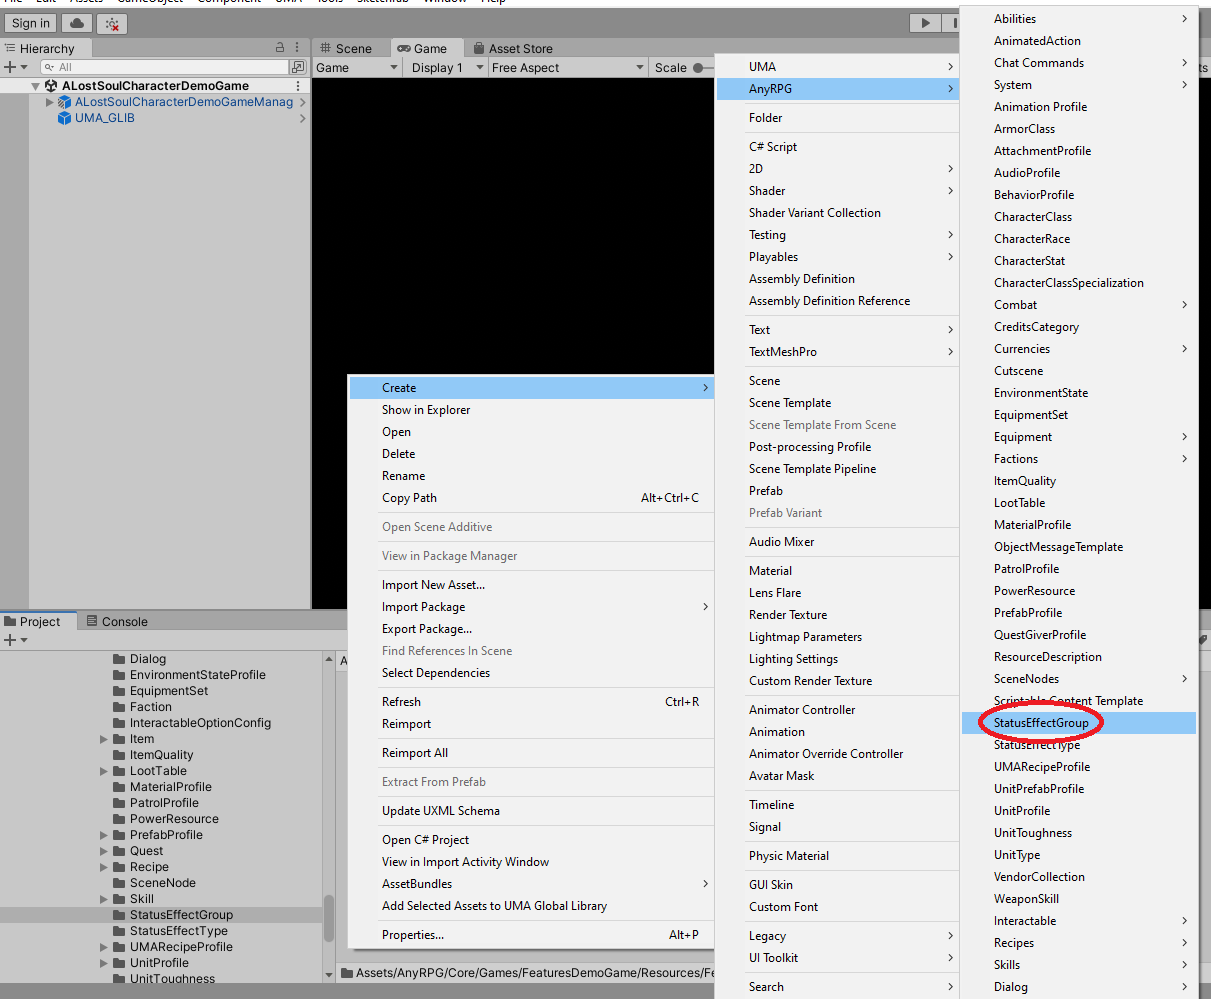
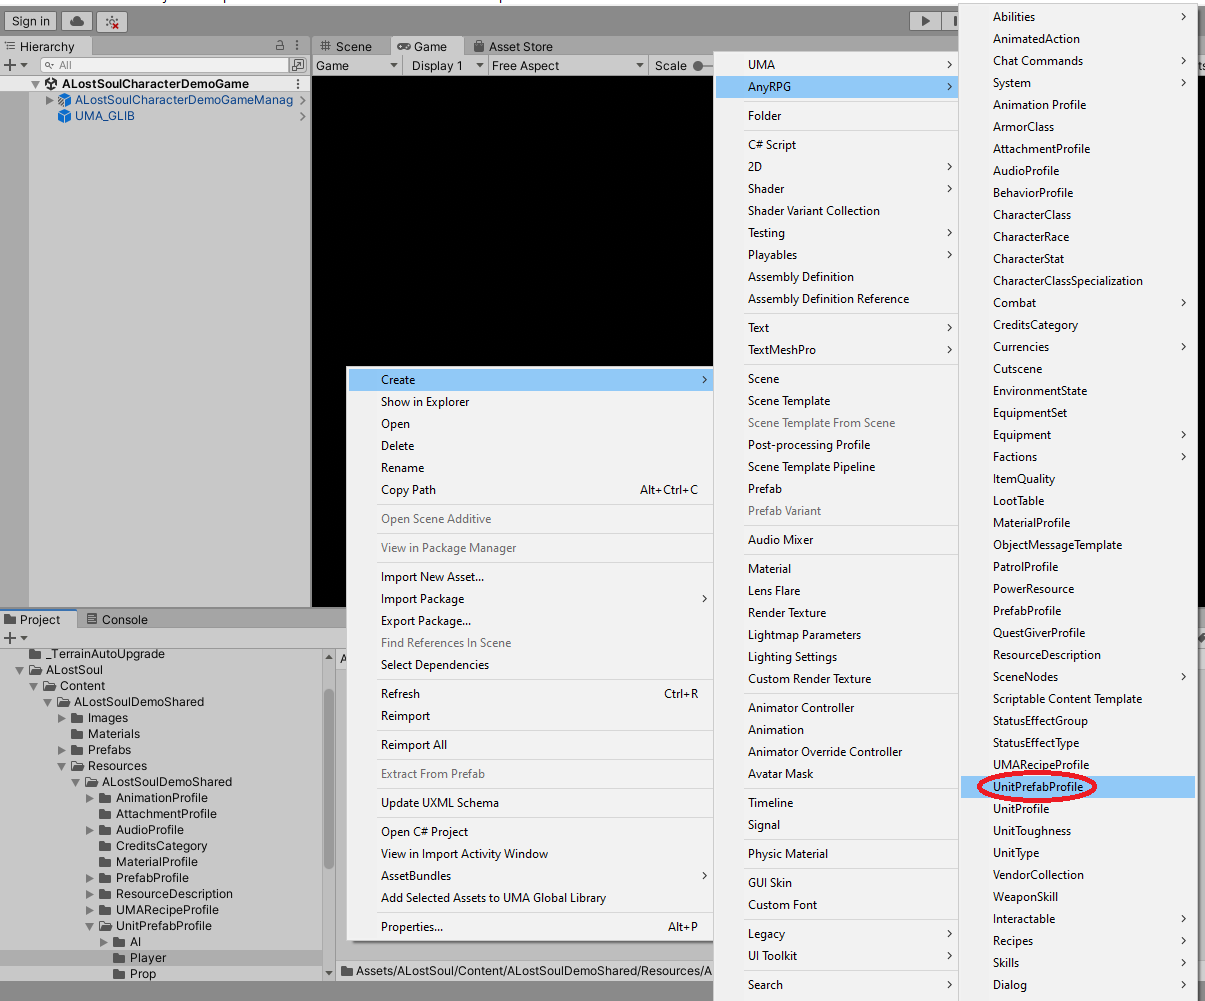
GitBook: [#59] add unit prefab profile documentation

diff --git a/scriptable-objects/unit-prefab-profile.md b/scriptable-objects/unit-prefab-profile.md
@@ -1,5 +1,53 @@
+---
+description: >-
+  A unit prefab profile contains information needed to configure the GameObject
+  prefab that represents the character model for any character.
+---
+
 # Unit Prefab Profile
 
-{% hint style="info" %}
-Coming Soon
-{% endhint %}
+## Creation
+
+To create a unit prefab profile, find (or create) the _GameName/Resources/GameName/UnitPrefabProfile_ folder in the project tab and right click.  Choose _Create > AnyRPG > UnitPrefabProfile_.
+
+![](<../.gitbook/assets/image (3).png>)
+
+## Properties
+
+| Name                          | Description                                                                                                                                                                                 |
+| ----------------------------- | ------------------------------------------------------------------------------------------------------------------------------------------------------------------------------------------- |
+| Unit Prefab                   | A link to a prefab that will be used for the character unit.  The unit prefab does not have to, but can optionally, include a model.                                                        |
+| Model Prefab                  | A link to a prefab that will be used for the character model if the model is separate from the _Unit Prefab_.                                                                               |
+| Animation Profile Name        | The name of an [Animation Profile](animation-profile.md) that will be used for the model animations.                                                                                        |
+| Use Inline Animation Props    | If true, the _Animation Props_ field will be used for animation properties, instead of a shared [Animation Profile](animation-profile.md).                                                  |
+| Animation Props               | Inline properties of an [Animation Profile](animation-profile.md).                                                                                                                          |
+| Rotate Model                  | If true, the model will be rotated to face in the direction of travel.  This option should be used if no strafe animations exist for the model.                                             |
+| Name Plate Props              | Nameplate, unit frame, and unit preview settings.  See [Name Plate Properties](unit-prefab-profile.md#properties-1).                                                                        |
+| Position                      | If being used as a mount, the Vector3 position in relation to the _Target Bone_ the character will be mounted to when riding.                                                               |
+| Rotation Is Global            | If true, and being used as a mount, the value in the _Rotation_ field will be considered global (relative to world space) instead of local.                                                 |
+| Rotation                      | If being used as a mount, the Vector3 rotation in relation to the _Target Bone_ the character will be mounted to when riding.                                                               |
+| Scale                         | If being used as a mount, the Vector3 scale of the character when riding.                                                                                                                   |
+| Target Bone                   | If being used as a mount, the bone the character will be attached to when riding.                                                                                                           |
+| Attachment Profile Name       | The [Attachment Profile](attachment-profile.md) used to lookup actual bone names when attaching prefabs (holdable objects) to the character model.                                          |
+| Float Height                  | When floating in water, the height from the bottom of the character that the water line will sit at.                                                                                        |
+| Add Float Height To Transform | If true, the height of the _Float Transform_ will be added to the _Float Height_. If false, the _Float Transform_ height will replace the _Float Height_ if the _Float Transform_ is found. |
+| Float Transform               | The name of a bone that should be used for the water line when floating.                                                                                                                    |
+
+### Name Plate Properties
+
+| Name                                | Description                                                                                                                                                     |
+| ----------------------------------- | --------------------------------------------------------------------------------------------------------------------------------------------------------------- |
+| Display Name                        | The name that is printed on the nameplate above the character model. This value will also override whatever is set for the interactable mouseover display name. |
+| Suppress Name Plate                 | If true, no nameplate will be shown above this character.                                                                                                       |
+| Suppress Faction                    | If true, the faction will not be shown on the nameplate.                                                                                                        |
+| Override Nameplate Position         | If true, the nameplate position will be shown at the manual value in the _Name Plate Position_ field.                                                           |
+| Unit Frame Target                   | The name of a bone that the camera will look at when taking a snapshot for the unit frame.                                                                      |
+| Unit Frame Camera Look Offset       | Any Vector3 offset that the camera will look at relative to the _Unit Frame Target_.                                                                            |
+| Unit Frame Camera Position Offset   | The position of the unit frame camera relative to the _Unit Frame Target_.                                                                                      |
+| Unit Preview Target                 | The name of a bone that the camera will look when displaying the character in a full body unit preview window.                                                  |
+| Unit Preview Camera Look Offset     | Any Vector3 offset that the camera will look at relative to the _Unit Preview Target_.                                                                          |
+| Unit Preview Camera Position Offset | The position of the unit preview camera relative to the _Unit Preview Target_.                                                                                  |
+
+## Next Steps
+
+* Add a unit prefab profile to a [Unit Profile](unit-profile.md).

diff --git a/scriptable-objects/items/weapon.md b/scriptable-objects/items/weapon.md
@@ -8,7 +8,7 @@ description: A weapon is a type of equipment that does damage to an enemy when u
 
 To create a weapon, find (or create) the _GameName/Resources/GameName/Item/Equipment_ folder (or any subfolder) in the project tab and right click.  Choose _Create > AnyRPG > Inventory > Equipment > Weapon_.
 
-![](<../../.gitbook/assets/image (5).png>)
+![](<../../.gitbook/assets/image (5) (2).png>)
 
 ## Properties
 

diff --git a/scriptable-objects/uma-recipe-profile.md b/scriptable-objects/uma-recipe-profile.md
@@ -10,7 +10,7 @@ description: >-
 
 To create an UMA recipe profile, find (or create) the _GameName/Resources/GameName/UMARecipeProfile_ folder (or any subfolder) in the project tab and right click.  Choose _Create > AnyRPG > UMARecipeProfile_.
 
-![](../.gitbook/assets/image.png)
+![](<../.gitbook/assets/image (5).png>)
 
 ## Properties
 

diff --git a/scriptable-objects/status-effect-group.md b/scriptable-objects/status-effect-group.md
@@ -10,7 +10,7 @@ description: >-
 
 To create a status effect group, find (or create) the _GameName/Resources/GameName/StatusEffectGroup_ folder in the project tab and right click.  Choose _Create > AnyRPG > StatusEffectGroup_.
 
-![](<../.gitbook/assets/image (3).png>)
+![](../.gitbook/assets/image.png)
 
 ## Properties
 
